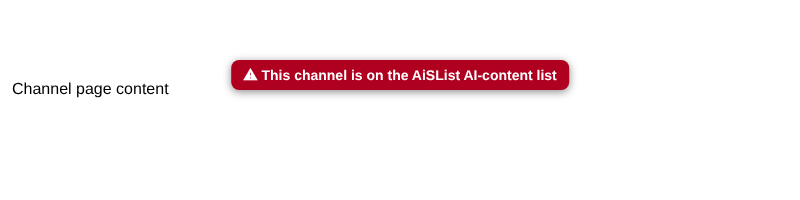
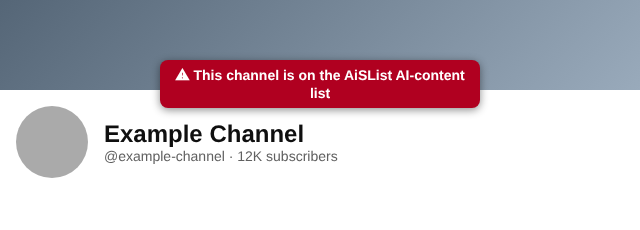
README: add more uBlock Origin list examples
Claude-Session: https://claude.ai/code/session_01YZVjdCzg8sfzfuB51HyomN

diff --git a/README.md b/README.md
@@ -36,11 +36,21 @@ on YouTube will differ.
 |---|---|
 | ![Label in front of the channel name on a Short](docs/compat-shorts.png) | ![Feed with two listed channels' videos](docs/feed-before.png) ![The same feed with them hidden](docs/feed-after.png) |
 
-**uBlock Origin list** (video page notice and the floating notice on channel pages)
+**uBlock Origin list.** The notice is a red box above the title on video pages, and a floating box at
+the top of the screen on channel pages and Shorts. The page-blocked screen with the **Proceed** button is
+uBlock Origin's own page, so it isn't shown here.
 
-| Video page | Channel page |
+| Video page (desktop) | Channel page, after Proceed |
 |---|---|
 | ![uBlock Origin list: notice above the video title](docs/ubo-video-page.png) | ![uBlock Origin list: floating notice on a channel page](docs/ubo-channel-page.png) |
+
+| Short (desktop) | Video page (mobile site) |
+|---|---|
+| ![uBlock Origin list: floating notice on a Short](docs/ubo-shorts.png) | ![uBlock Origin list: floating notice on a mobile video page](docs/ubo-mobile-video.png) |
+
+| Short (mobile site) | Feed: before and after |
+|---|---|
+| ![uBlock Origin list: floating notice on a mobile Short](docs/ubo-mobile-shorts.png) | ![Feed with two listed channels' videos](docs/ubo-feed-before.png) ![The same feed with them hidden](docs/ubo-feed-after.png) |
 
 ## Install: uBlock Origin list
 
